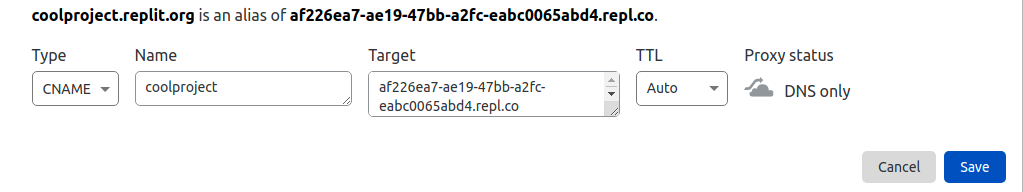
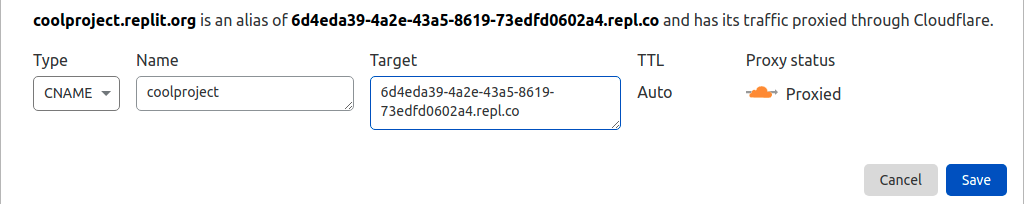
another cloudflare example

diff --git a/repls/web-hosting.md b/repls/web-hosting.md
@@ -55,8 +55,6 @@ The exact steps will vary between services. Here's an example of how it might lo
 
 ![screenshot of cname instructions](/images/repls/google-setup-custom-domain.png)
 
-Here is another example of how it might look in Cloudflare. Please make sure your domain is not proxied as it will cause issues linking your domain.
-
 ![screenshot of Cloudflare cname instructions](/images/repls/cloudflare-setup-custom-domain.png)
 
 It may take some time for the DNS record to be updated. Once connected, click the big green button to finish and your domain should be linked!
